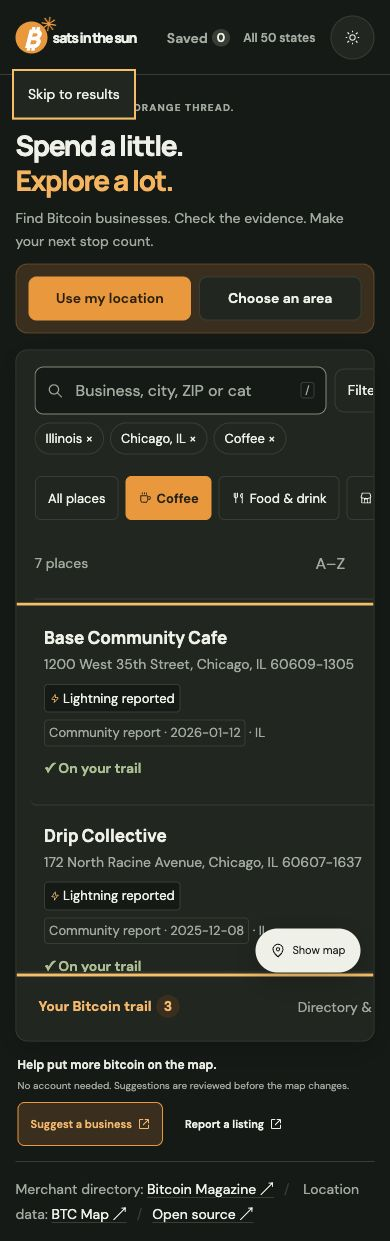
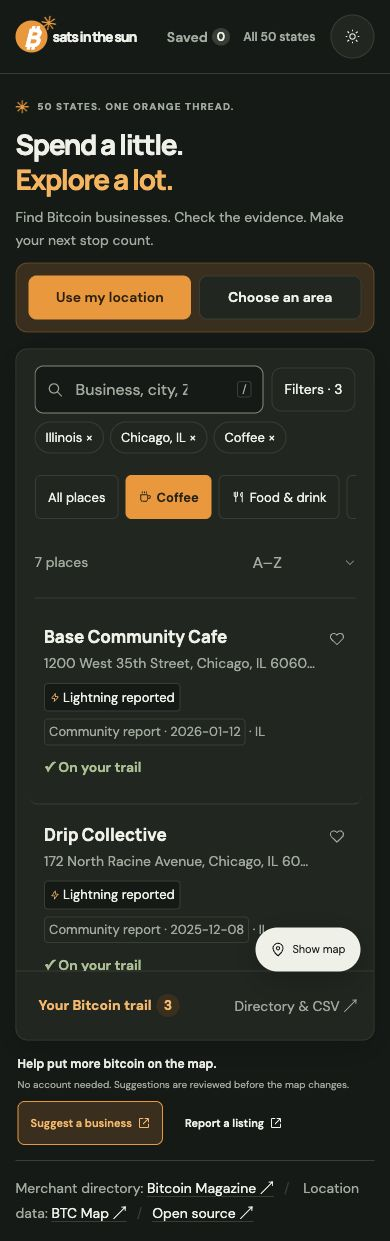
Keep full-list controls visible on mobile (#28)
## Change

On narrow screens, Full list inherited the 420 px desktop sidebar width.
The explorer clipped Filters, Save, and Directory & CSV inside the
panel. Full list now fits the explorer at mobile and tablet widths. The
updated stylesheet URL refreshes cached copies.

## Validation

- [x] `npm run check` passed all 65 tests, directory validation, and the
Pages smoke test.
- [x] Verified that the controls fit within the list at 320, 390, 430,
820, 1023, and 1024 px in Chromium. At 320 px, Filters expanded, Save
toggled on and off, and Directory & CSV opened the directory.
- The release checks validated data provenance and attribution.

![Full list at 390
px](https://raw.githubusercontent.com/hotpixelgroup/bitcoin-biz-map/f6192cb3d2fb9b56a2265f8eef968c1dea6773f2/docs/screenshots/mobile-accessibility.jpg)

diff --git a/dist/status.html b/dist/status.html
@@ -1,1 +1,1 @@
-<!doctype html><html lang="en"><head><meta charset="utf-8"><meta name="viewport" content="width=device-width,initial-scale=1"><meta name="robots" content="noindex"><meta name="referrer" content="no-referrer"><title>Your report | Sats in the Sun</title><link rel="stylesheet" href="styles.css?v=mobile-a11y-1"><link rel="stylesheet" href="experience.css?v=mobile-a11y-1"><script>try{document.documentElement.dataset.theme=localStorage.getItem('sun-theme')||(matchMedia('(prefers-color-scheme: dark)').matches?'dark':'light')}catch{}</script><script defer src="community-config.js?v=mobile-a11y-1"></script><script defer src="status.js?v=mobile-a11y-1"></script></head><body class="place-page"><a class="skip-link" href="#content">Skip to report status</a><header><a class="brand" href="./">₿ sats in the sun</a></header><main id="content" tabindex="-1"><span class="eyebrow">THANK YOU FOR HELPING</span><h1>Your report’s progress.</h1><p id="receipt-status" role="status">Checking your receipt…</p><p id="receipt-dates"></p><div class="place-actions"><button id="receipt-refresh" class="primary-button">Check again</button><a id="receipt-issue" hidden target="_blank" rel="noopener noreferrer">Read the public review</a></div><p>Reports receive human review before the map changes. Processing and review are separate steps. This receipt is available for 30 days; the public review remains available afterward.</p><a href="./">Back to exploring →</a></main></body></html>
+<!doctype html><html lang="en"><head><meta charset="utf-8"><meta name="viewport" content="width=device-width,initial-scale=1"><meta name="robots" content="noindex"><meta name="referrer" content="no-referrer"><title>Your report | Sats in the Sun</title><link rel="stylesheet" href="styles.css?v=mobile-a11y-1"><link rel="stylesheet" href="experience.css?v=mobile-a11y-2"><script>try{document.documentElement.dataset.theme=localStorage.getItem('sun-theme')||(matchMedia('(prefers-color-scheme: dark)').matches?'dark':'light')}catch{}</script><script defer src="community-config.js?v=mobile-a11y-1"></script><script defer src="status.js?v=mobile-a11y-1"></script></head><body class="place-page"><a class="skip-link" href="#content">Skip to report status</a><header><a class="brand" href="./">₿ sats in the sun</a></header><main id="content" tabindex="-1"><span class="eyebrow">THANK YOU FOR HELPING</span><h1>Your report’s progress.</h1><p id="receipt-status" role="status">Checking your receipt…</p><p id="receipt-dates"></p><div class="place-actions"><button id="receipt-refresh" class="primary-button">Check again</button><a id="receipt-issue" hidden target="_blank" rel="noopener noreferrer">Read the public review</a></div><p>Reports receive human review before the map changes. Processing and review are separate steps. This receipt is available for 30 days; the public review remains available afterward.</p><a href="./">Back to exploring →</a></main></body></html>

diff --git a/dist/index.html b/dist/index.html
@@ -23,7 +23,7 @@
 <meta name="twitter:image" content="https://hotpixelgroup.github.io/bitcoin-biz-map/assets/sats-in-the-sun-us-social.png">
 <meta name="twitter:image:alt" content="An illustrated American bitcoin field guide with an Arizona-inspired a Bitcoin sun, desert mountains, saguaro cactus, and orange map pins. Spend a little. Explore a lot.">
 <link rel="preconnect" href="https://fonts.googleapis.com"><link rel="preconnect" href="https://fonts.gstatic.com" crossorigin><link href="https://fonts.googleapis.com/css2?family=DM+Sans:wght@400;450;500;550;600;650;700&family=Manrope:wght@400;500;600;650;700;750;800&display=swap" rel="stylesheet">
-<link rel="stylesheet" href="vendor/leaflet.css"><link rel="stylesheet" href="vendor/MarkerCluster.css"><link rel="stylesheet" href="styles.css?v=mobile-a11y-1"><link rel="stylesheet" href="responsive.css?v=mobile-a11y-1"><link rel="stylesheet" href="experience.css?v=mobile-a11y-1">
+<link rel="stylesheet" href="vendor/leaflet.css"><link rel="stylesheet" href="vendor/MarkerCluster.css"><link rel="stylesheet" href="styles.css?v=mobile-a11y-1"><link rel="stylesheet" href="responsive.css?v=mobile-a11y-1"><link rel="stylesheet" href="experience.css?v=mobile-a11y-2">
 <script>try{document.documentElement.dataset.theme=localStorage.getItem('sun-theme')||(matchMedia('(prefers-color-scheme: dark)').matches?'dark':'light')}catch{}</script>
 <script defer src="vendor/leaflet.js"></script><script defer src="vendor/leaflet.markercluster.js"></script><script defer src="community-config.js?v=mobile-a11y-1"></script><script defer src="geography.js?v=mobile-a11y-1"></script><script defer src="directory-tools.js?v=mobile-a11y-1"></script><script defer src="community.js?v=mobile-a11y-1"></script><script defer src="explorer-core.js?v=mobile-a11y-1"></script><script defer src="discovery.js?v=mobile-a11y-1"></script><script defer src="catalog.js?v=mobile-a11y-1"></script><script defer src="location.js?v=mobile-a11y-1"></script><script defer src="app.js?v=mobile-a11y-1"></script>
 </head>

diff --git a/dist/directory.html b/dist/directory.html
@@ -8,7 +8,7 @@
 <meta property="og:type" content="website"><meta property="og:title" content="Bitcoin businesses in all 50 states | Sats in the Sun"><meta property="og:description" content="Find a place to spend sats. Explore the sourced directory, check evidence and download your state’s list."><meta property="og:url" content="https://hotpixelgroup.github.io/bitcoin-biz-map/directory.html">
 <meta property="og:image" content="https://hotpixelgroup.github.io/bitcoin-biz-map/assets/sats-in-the-sun-us-social.png"><meta property="og:image:width" content="1730"><meta property="og:image:height" content="909"><meta property="og:image:alt" content="Sats in the Sun illustrated Bitcoin map with orange pins and a Bitcoin sun."><meta name="twitter:card" content="summary_large_image"><meta name="twitter:image" content="https://hotpixelgroup.github.io/bitcoin-biz-map/assets/sats-in-the-sun-us-social.png"><meta name="twitter:image:alt" content="Sats in the Sun illustrated Bitcoin map.">
 <link rel="stylesheet" href="styles.css?v=mobile-a11y-1"><link rel="stylesheet" href="responsive.css?v=mobile-a11y-1">
-<link rel="stylesheet" href="experience.css?v=mobile-a11y-1">
+<link rel="stylesheet" href="experience.css?v=mobile-a11y-2">
 <script>try{document.documentElement.dataset.theme=localStorage.getItem('sun-theme')||(matchMedia('(prefers-color-scheme: dark)').matches?'dark':'light')}catch{}</script>
 <script defer src="geography.js?v=mobile-a11y-1"></script><script defer src="directory-tools.js?v=mobile-a11y-1"></script><script defer src="explorer-core.js?v=mobile-a11y-1"></script><script defer src="discovery.js?v=mobile-a11y-1"></script><script defer src="catalog.js?v=mobile-a11y-1"></script><script defer src="directory.js?v=mobile-a11y-1"></script>
 </head>

diff --git a/dist/experience.css b/dist/experience.css
@@ -47,6 +47,7 @@ input::placeholder,textarea::placeholder{color:var(--muted);opacity:1}
 .state-heading>div:last-child,.state-section>details>summary,.state-index a,.sidebar-bottom button,.sidebar-bottom a,.trip-panel li>div button,.trip-heading p,.directory-method p,.directory-method strong,.directory-method>a,footer{font-size:14px}
 .community-actions a{min-height:44px}
 @media(max-width:1023px){
+ .explorer:not(.map-view) .sidebar{width:100%}
  .explorer.map-view[data-sheet] .sidebar{height:var(--drag-height,var(--map-cover));overflow:auto}
  .explorer.keyboard-map .sidebar{transition:none}
  .national-filters select,.all-categories select,.city-select select,.list-heading select,.travel-mode select{font-size:16px}
